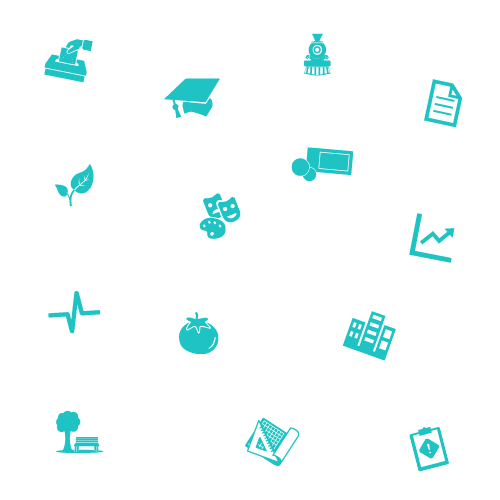
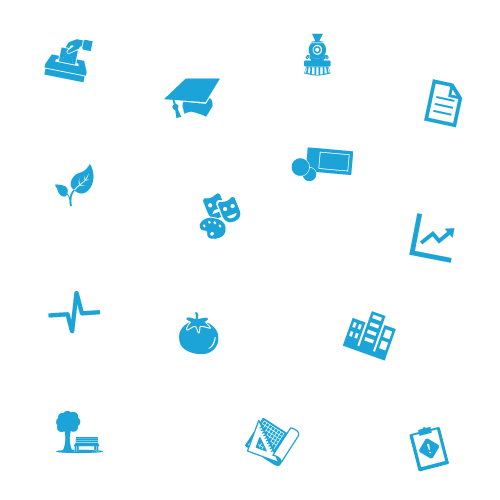
site redesign

diff --git a/index.html b/index.html
@@ -140,21 +140,6 @@ partners:
 </div>
 <!-- Header -->
 
-<!-- Call to action -->
-<section id="call-to-action" class="call-to-action">
-  <div class="container">
-    <div class="row stack-sm align-center columns-center">
-      <div class="column-6 text-center">
-        <span class="phase">{{ page.c2a.phase }}</span>
-        <h2 class="h4">{{ page.c2a.title }}</h2>
-        <br>
-        <a href="{{ page.c2a.button.link }}" class="btn btn-secondary btn-large" target="_blank">{{ page.c2a.button.text }}</a>
-      </div>
-    </div>
-  </div>
-</section>
-<!-- Call to action -->
-
 <!-- Purpose -->
 <section class="purpose">
   <div class="container">
@@ -198,130 +183,5 @@ partners:
   </div>
 </section>
 <!-- about -->
-
-<!-- Key dates -->
-<section class="key-dates">
-  <div class="container">
-    <h2 class="h2 text-center">{{ page.calendar.title }}</h2>
-    <div class="row stack-sm align-center">
-      {% for date in page.calendar.keydates %}
-      <div class="column">
-        <div class="card date">
-          <h4 class="card-title">
-            {{ date.keydate.date }}<br>
-            <span>{{ date.keydate.day }}</span>
-          </h2>
-          <div class="card-body">
-            <p>{{ date.keydate.event }}</p>
-          </div>
-        </div>
-      </div>
-      {% endfor %}
-    </div>
-  </div>
-</section>
-<!-- Key dates -->
-
-<!-- Awards & Sponsors -->
-<section class="awards">
-  <div class="container">
-    <div class="row stack-sm align-center">
-      <div class="column-6 text-center">
-        <h2 class="h2 text-center">Prizes</h2>
-        <h2 class="h4 secondary-headings">{{ page.placements-sponsors.award-title }}</h2>
-        <div class="award-block stack-xs">
-          {% for prize in page.placements-sponsors.awards %}
-            <div class="award" id="{{ prize.award.place }}">
-              <h4 class="award-title">{{ prize.award.place }}</h4>
-              <div class="award-body">
-                <p>{{ prize.award.prize }}</p>
-              </div>
-            </div>
-          {% endfor %}
-        </div>
-      </div>
-      <div class="column-6 text-center">
-        <br>
-        <h2 class="h2">Sponsors</h2>
-        <h2 class="h4 secondary-headings">{{ page.placements-sponsors.sponsors-title }}</h2>
-        <br>
-        <div class="row stack-sm columns-center align-center">
-          {% for sponsor in page.placements-sponsors.sponsors %}
-            <div class="logos column-2">
-              <a href="{{ sponsor.sponsor.link }}" target="_blank">
-                <img src="{{ sponsor.sponsor.image }}" alt="{{ sponsor.sponsor.alt }}">
-              </a>
-            </div>
-          {% endfor %}
-        </div>
-        <p class="stand-out">{{ page.placements-sponsors.sponsors-c2a }}</p>
-      </div>
-    </div>
-  </div>
-</section>
-<!-- Awards & Sponsors -->
-
-<!-- Partners -->
-<section class="partners">
-  <div class="container">
-    <div class="row stack-sm align-center columns-center">
-      <div class="column-6 text-center">
-        <h2 class="h2">Partners</h2>
-        <h2 class="h4">{{ page.partners.title }}</h2>
-        <div class="row stack-sm align-center columns-center">
-          {% for partner in page.partners.partners %}
-            <div class="logos column-2">
-              <a href="{{ partner.partner.link }}" target="_blank">
-                <img src="{{ partner.partner.image }}" alt="{{ partner.partner.alt }}">
-              </a>
-            </div>
-          {% endfor %}
-        </div>
-      </div>
-    </div>
-  </div>
-</section>
-<!-- Partners -->
-
-<!-- Modal -->
-<div class="modal">
-  <div class="modal-backdrop"></div>
-  <div class="modal-body">
-    <button class="close-btn btn close-modal">Close</button>
-    <h3 class="text-center">
-      <span class="color-primary">OpenDataVote in Philadelphia has come to a close!</span> <br>
-      <small>Congratulations to the winning organizations!</small>
-    </h3>
-    <hr>
-    <h4>1st Place</h4>
-    <p>
-    <strong>MicroSociety, Donors to the Philadelphia School District</strong> <br>
-    They plan to measure the impacts that nonprofit programs are having on the school district with this data.
-    </p>
-    <h4>2nd Place</h4>
-    <p>
-    <strong>Philadelphia Chinatown Development Corporation, Public Housing and City-Subsidized Housing Program Beneficiaries</strong> <br>
-    This organization plans to use the data to advocate for fair housing for the immigrant & English Language Learner (ELL) population in Philly.
-    </p>
-    <h4>3rd Place</h4>
-    <p>
-    <strong>PHS, Street Rights-of-Way</strong> <br>
-    PHS plans to use the data to drive planting decisions & planning to streamline the street tree approval and planting process for Tree Tenders and the city’s street tree office. This will support the Tree Tenders/Plant One Million street tree planting, a partnership with the Parks and Recreation Department.
-    </p>
-    <h4>Special Recognition</h4>
-    <p>
-    <strong>Community Legal Services, Water Department Lead Service Lines</strong> <br>
-    This group lead voting for the first weeks of the voting period. The Advisory Board decided to recognize this organization for their advocacy for open data for the benefit of the community.
-    The release of this data would facilitate counseling families by Community Legal Services regarding potential risk of lead exposure from water service lines and connecting families to resources to prevent potential lead exposure.
-    </p>
-    <hr>
-    <p>
-    In both 2011 and 2017 we organized OpenDataVote in Philadelphia. We’re interested in working with other cities in the future and would love to get your feedback. If you would like to bring OpenDataVote to your city, please let us know.
-    </p>
-    <button class="btn close-modal">Close</button>
-    <a class="btn btn-primary pull-right" href="mailto:info@opendatavote.org?subject=OpenDataVote Blog Inquiry">Contact us</a>
-  </div>
-</div>
-<!-- Modal -->
 
 {% include footer.html %}

diff --git a/_includes/footer.html b/_includes/footer.html
@@ -2,7 +2,6 @@
   <section class="contact text-center">
     <div class="container">
       <h4 class="h3">Want to organize an OpenDataVote in your city?</h4>
-      <p class="h4">In 2017 we're running OpenDataVote in Philadelphia. We're interested in working with other cities in the future. If you would like to bring OpenDataVote to your city, please let us know.</p>
       <a href="mailto:info@opendatavote.org?subject=OpenDataVote Contact Form Inquiry" class="btn btn-secondary btn-large">Contact Us</a>
     </div>
   </section>
@@ -10,15 +9,14 @@
     <div class="row stack-sm">
     <div class="column-4">
       <img class="brand" src="images/OpenDataVote-logo-white.png" alt="Open Data Vote">
-      <p>The current OpenDataVote is in coordination with 
-        <a href="https://beta.phila.gov/departments/office-of-open-data-and-digital-transformation/" target="_blank">The City of Philadelphia</a> &amp; 
-        <a href="https://www.opendataphilly.org/" target="_blank">OpenDataPhilly</a>
-      </p>
+      <p>Encourage your government to publish open data</p>
     </div>
     <div class="column-2">
       <nav>
         <a href="/history">History</a><br>
-        <a href="/rules">Rules &amp; Eligibility</a><br>
+        <a href="mailto:info@opendatavote.org?subject=OpenDataVote Contact Form Inquiry">
+          Contact Us
+        </a>
       </nav>
     </div>
     <div class="column-2">
@@ -29,9 +27,6 @@
         <a href="https://www.facebook.com/OpenDataVote/" target="_blank" class="tooltip" title="Like us on Facebook">
           Facebook
         </a><br>
-        <a href="mailto:info@opendatavote.org?subject=OpenDataVote Contact Form Inquiry">
-          Contact Us
-        </a>
       </nav>
     </div>
   </div>

diff --git a/_sass/layout/_header.scss b/_sass/layout/_header.scss
@@ -6,19 +6,41 @@ header {
 }
 
 .pattern-header {
-  background-image: url('/images/hero-graph.svg');
-  background-repeat: no-repeat;
-  background-color: #fff;
-  background-position: center bottom;
-  background-size: 100%;
+  background-image: url('/images/pattern-ff.png');
+  background-color: #1f3442;
+  background-size: 280px;
+  background-attachment: fixed;
 
   h1 {
     margin-top: 3rem;
-    margin-bottom: 6rem;
+    color: #fff;
+    padding: 20px;
+    position: relative;
+    border-radius: 5px;
+    background: rgba(31, 52, 66, 0.82);
+    box-shadow: 0 0 10px rgba(0, 0, 0, 0.24);
+    border: 1px solid #16252f;
+
+    &:after {
+      content: '';
+      display: block;
+      position: absolute;
+      top: 0;
+      left: 0;
+      height: 100%;
+      width: 100%;
+      background: rgb(31, 52, 66) url(/images/pattern-ff.png);
+      padding: 20px;
+      border-radius: 5px;
+      filter: blur(3px);
+      background-size: 280px;
+      background-attachment: fixed;
+      z-index: -1;
+    }
   }
 
   @media (max-width: 992px) {
-    background-size: cover;
-    background-position: left bottom -40px;
+    //background-size: cover;
+    //background-position: left bottom -40px;
   }
 }

diff --git a/_layouts/default.html b/_layouts/default.html
@@ -26,28 +26,10 @@
   <link href="https://fonts.googleapis.com/css?family=Lato:300,400,700,900" rel="stylesheet">
 
 </head>
-<body {%if page.page-class%} class="{{ page.page-class }} {% if page.url == '/' %}no-scroll{% endif %}" {% endif %}>
+<body {%if page.page-class%} class="{{ page.page-class }}" {% endif %}>
   {{ content }}
 
   <script src="https://ajax.googleapis.com/ajax/libs/jquery/1.11.1/jquery.min.js"></script>
-
-  {% if page.url == "/" %}
-  <script>
-    $('.close-modal, .modal-backdrop').on('click', function(el) {
-      el.preventDefault();
-
-      $('.modal').remove();
-      $('body').removeClass('no-scroll');
-    });
-
-    $(document).keyup(function(e) {
-      if (e.keyCode == 27) {
-        $('.modal').remove();
-        $('body').removeClass('no-scroll');
-      }
-    });
-  </script>
-  {% endif %}
 </body>
 </html>
 

diff --git a/_sass/layout/_footer.scss b/_sass/layout/_footer.scss
@@ -4,7 +4,7 @@ footer {
   background-color: $shade-normal;
   padding-top: 4rem;
   padding-bottom: 4rem;
-  color: $shade-normal;
+  color: #fff;
 
   .brand {
     max-width: 20rem;
@@ -31,11 +31,15 @@ footer {
     margin-top: -4rem;
     padding: 4rem 0;
     margin-bottom: 20px;
-    background-color: #6CECD5;
+    background-color: $brand-primary;
 
-    p {
+    p, .h3 {
       max-width: inherit;
-      color: $shade-normal;
+      color: #fff;
+    }
+
+    .btn {
+      margin-top: 10px;
     }
   }
 }

diff --git a/_includes/navigation.html b/_includes/navigation.html
@@ -2,13 +2,12 @@
   <div class="container">
     <div class="navbar-left">
       <a href="/" class="brand">
-        <img src="/images/OpenDataVote-logo-green.png" alt="Open Data Vote">
+        <img src="/images/OpenDataVote-logo-blue.png" alt="Open Data Vote">
       </a>
     </div>
     <div class="navbar-right">
       <nav>
         <a href="/history">History</a>
-        <a href="/rules">Rules &amp; Eligibility</a>
       </nav>
     </div>
   </div>

diff --git a/_sass/components/_panel.scss b/_sass/components/_panel.scss
@@ -1,0 +1,23 @@
+.panel {
+  background-color: $shade-normal;
+  padding: 20px;
+  border-radius: 5px;
+  color: #fff;
+
+  @include heading-tags {
+    color: #fff;
+  }
+
+  &.light {
+    background-color: #eaf0f3;
+    color: $shade-normal;
+
+    @include heading-tags {
+      color: $shade-normal;
+    }
+  }
+
+  + .panel {
+    margin-top: 2rem;
+  }
+}

diff --git a/_sass/utils/_variables.scss b/_sass/utils/_variables.scss
@@ -4,13 +4,13 @@
  */
 
 // Brand Colors:
-$brand-primary: #1cd8b6;
+$brand-primary: #1ca4d8;
 $brand-secondary: $brand-primary;
 
 // Base Colors:
 $text-base: #444849;
 $shade-light: #6e7a81;
-$shade-normal: #31383c;
+$shade-normal: #1f3442;
 $shade-dark: #000;  
 
 // Login modal colors:

diff --git a/_sass/components/_card.scss b/_sass/components/_card.scss
@@ -1,7 +1,7 @@
 .card {
   background-color: rgba(#fff, 1);
   box-shadow: 0 0 20px 0 rgba($shade-normal, .2);
-  border: 2px solid $brand-primary;
+  border: 2px solid #1ca4d8;
   padding: 4rem 4rem;
   position: relative;
   height: 100%;

diff --git a/css/main.scss b/css/main.scss
@@ -43,7 +43,7 @@
   "components/card",
   "components/nav",
   "components/tooltip",
-  "components/tooltip",
+  "components/panel",
   "components/map";
 
 /**

diff --git a/_sass/layout/_section.scss b/_sass/layout/_section.scss
@@ -5,7 +5,3 @@ section {
   padding-top: 4rem;
   padding-bottom: 4rem;
 }
-
-section.copy {
-  background-color: #eee;
-}

diff --git a/_sass/components/_content.scss b/_sass/components/_content.scss
@@ -1,5 +1,3 @@
 .content {
   background-color: #fff;
-  border-radius: 4px;
-  padding: 1rem 3rem 3rem;
 }
